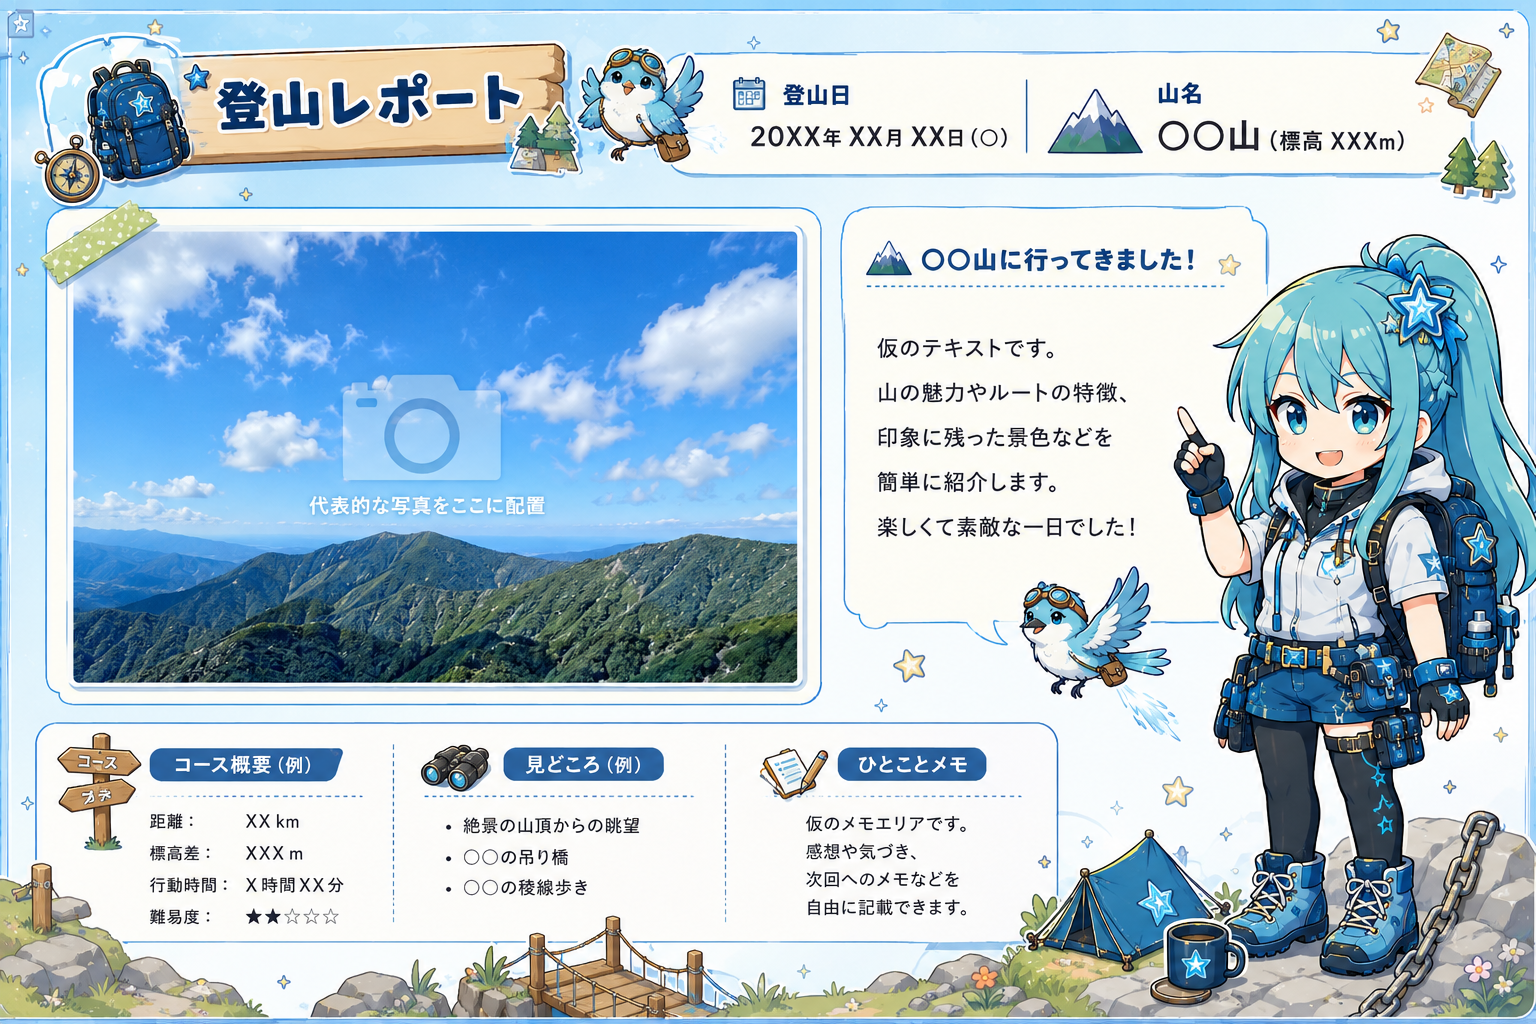
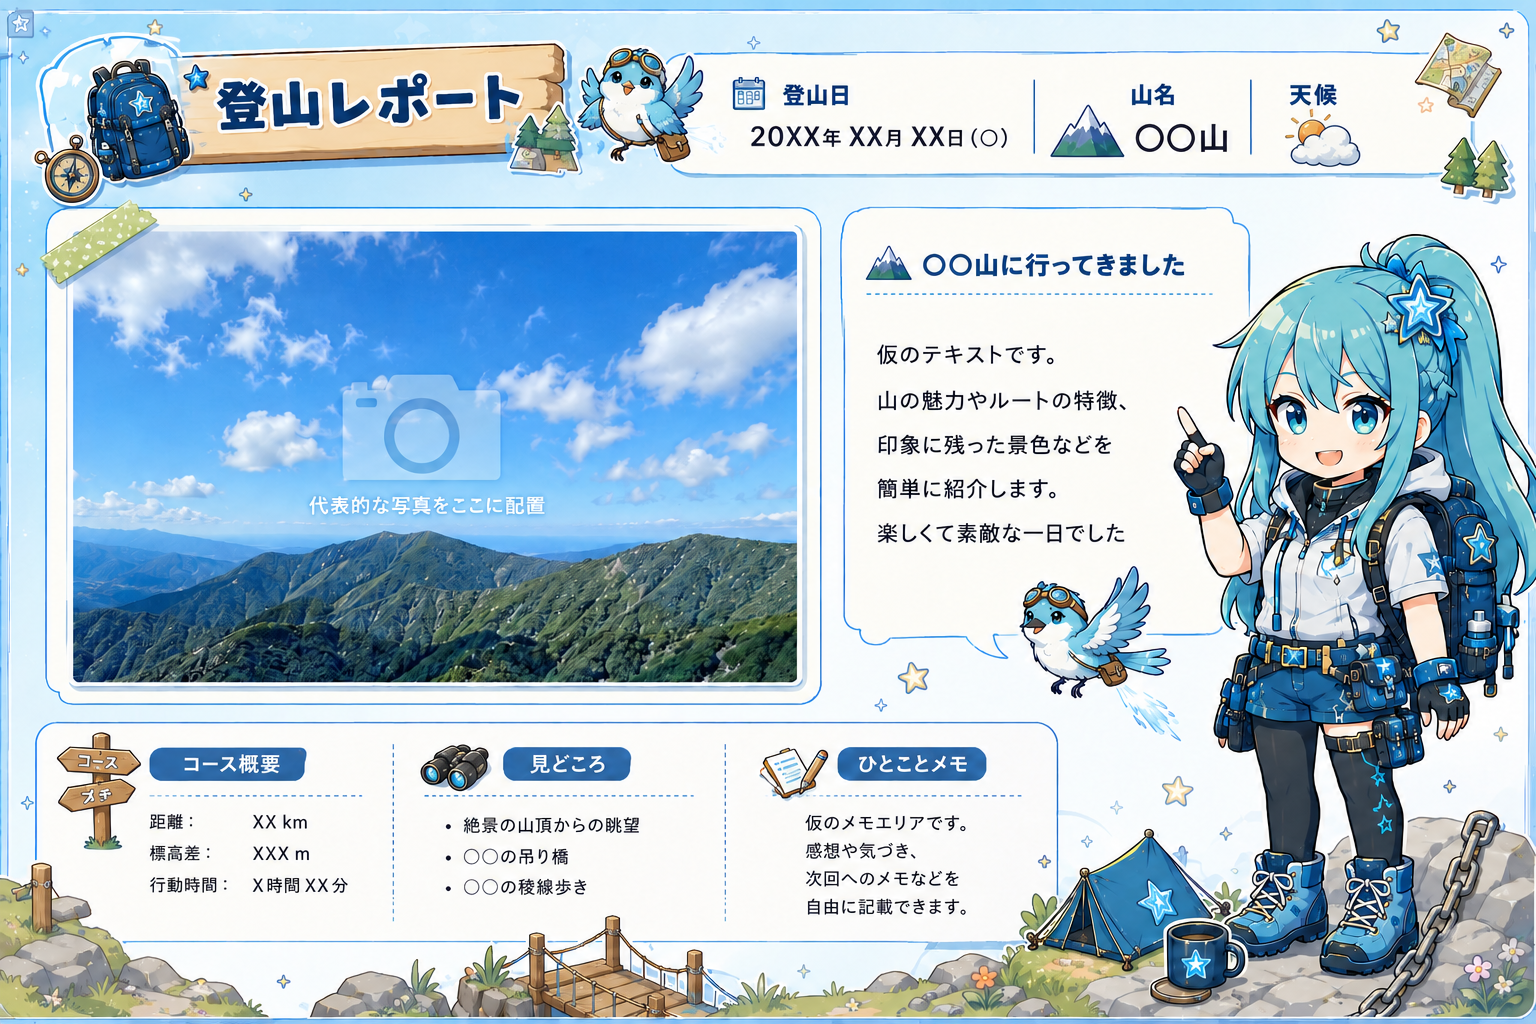
テンプレートファイルの調整

diff --git a/assets/scribe_image_guideline.md b/assets/scribe_image_guideline.md
@@ -29,25 +29,22 @@
 
 ### 3-1. レイアウトの各領域と差し込む内容
 
-`report_template.png` のレイアウトを踏襲し、各領域へレポートから読み解いた内容を差し込みます。テンプレートのプレースホルダ（「〇〇山」「20XX年」「仮のテキストです。」「代表的な写真をここに配置」のカメラアイコンなど）は**すべて実際の内容へ置き換え**、置き換え漏れを残さないでください。
+`report_template.png` のレイアウトを踏襲し、各領域へレポートから読み解いた内容を差し込みます。テンプレートのプレースホルダ（「〇〇山」「20XX年」「仮のテキストです。」「代表的な写真をここに配置」のカメラアイコン、ヘッダ天候欄の仮アイコンなど）は**すべて実際の内容へ置き換え**、置き換え漏れを残さないでください。
 
 | テンプレートの領域 | 差し込む内容 | 主な情報源 |
 |---|---|---|
 | タイトル帯「登山レポート」 | テンプレートのまま | - |
-| 登山日 | 「YYYY年M月D日（曜）」。複数日の行程は期間で表記 | ステップ3の読み解き（activity_data / header） |
-| 山名 | 主要な山1つ＋標高（例: 「鐘撞堂山（標高330m）」） | header / activity_detail / Todoist タスク |
+| 登山日（ヘッダ） | 「YYYY年M月D日（曜）」。複数日の行程は期間で表記 | ステップ3の読み解き（activity_data / header） |
+| 山名（ヘッダ） | 主要な山1つ（例: 「鐘撞堂山」）。**標高は記載しない** | header / activity_detail / Todoist タスク |
+| 天候（ヘッダ） | テンプレートの仮アイコンを、`report_designs_2.png` の天候アイコンチップから**山行当日の天候に合うもの**へ置き換え（アイコンのみ。チップ脇のラベル文字は描かない） | activity_detail / header / 代表写真 |
 | 代表写真エリア | **添付した代表写真をそのまま配置** | ユーザーの代表写真 |
 | 見出し吹き出し | 「〇〇山に行ってきました」（**「！」は付けない**） | 山名 |
 | 紹介文（吹き出し内） | 山行の要約を1行あたり短めの文で4〜6行。**「天候」「険しさの度合い」「眺望」を優先**（SNS 本文と同じ観点） | activity_detail |
-| コース概要 | 距離／標高差（のぼり）／行動時間／難易度（星） | activity_data |
+| コース概要 | 距離／標高差（のぼり）／行動時間 | activity_data |
 | 見どころ | 2〜3項目。各項目は15字前後の短い語句・体言止め | activity_detail / checkpoints |
 | ひとことメモ | 1〜3行の短い感想・気づき | activity_detail |
 
-### 3-2. 難易度（星）の決め方
-
-コース概要の「難易度」は、[yamap_activity_guide.md](../.claude/docs/yamap_activity_guide.md) の5段階「手応え」評価（軸①: ルートの手応え）をそのまま星の数に対応させます（Lv.1 = ★1つ 〜 Lv.5 = ★5つ、5個中）。コース定数ラベルが読み取れない場合も、同ガイドの補完手順（タイム・距離・のぼり等からの大づかみな推定）に従ってください。
-
-### 3-3. 内容の制約（SNS 本文と同じ基準）
+### 3-2. 内容の制約（SNS 本文と同じ基準）
 
 * レポートに無い情報を推測で加筆しない（公開されているレポートの範囲で構成する）
 * YAMAP バッジの進行状況は含めない
@@ -55,7 +52,7 @@
 * 個人・家族が特定される情報や、レポートに公開されていない予定・位置情報を描かない
 * ホログラム・ルリの固有名・蛍・ルミナス・ログなどの世界観固有の語彙を**テキストとして描かない**（ルリは絵として登場するが、名前や設定の説明文は入れない）
 
-### 3-4. 碧衣とルリの扱い
+### 3-3. 碧衣とルリの扱い
 
 * テンプレート通り、画面右側に碧衣（チビ頭身の立ち絵）、傍らにルリを配置します。意匠（碧衣の水色の髪・星のモチーフ・登山装備、ルリのゴーグル・ショルダーバッグ・輝く尾羽）は崩さないでください。
 * 表情・仕草は、レポートの手応えや空気に合わせて微調整して構いません。`report_designs_1.png` に碧衣の**ポーズバリエーション**（達成した・余裕がある・案内・説明・疲れている・休憩中 など）と**表情バリエーション**（笑顔・やる気・達成感 など）が用意されているので、山行の空気に合うものを選んでプロンプトで指定してください（例: 重厚な山行なら達成感のあるポーズ・表情、のどかな里山なら案内ポーズに穏やかな笑顔）。この2点が、この画像で許される数少ない「彩り」です。
@@ -82,7 +79,7 @@
 ### ① [レイアウトの踏襲]
 
 * プロンプトの冒頭で「添付した report_template.png のレイアウト・配色・作画スタイルを忠実に踏襲してください」と宣言してください（添付資料の見落とし防止。デイリーモードの「冒頭の参照誘導」に相当）。
-* あわせて「テンプレート内のプレースホルダのテキスト・カメラアイコンは、後述の指定内容へすべて置き換える」ことを明示してください。
+* あわせて「テンプレート内のプレースホルダのテキスト・カメラアイコン・ヘッダ天候欄の仮アイコンは、後述の指定内容へすべて置き換える」ことを明示してください。
 
 ### ② [差し込みテキスト]
 
@@ -98,7 +95,7 @@
 ### ④ [チップの散りばめ]
 
 * 「添付した report_designs_1.png / report_designs_2.png のチップ（登山道具・地形オブジェクト・天候アイコン・季節装飾など）を、レイアウトの余白や見出し脇に装飾として散りばめてください」と指示してください。細かい配置指定は不要で、おおよその方向付けで構いません。
-* **天候アイコンチップ（優先して使う）**: 「天候」はSNS本文・画像の双方で優先的に伝える観点です。`report_designs_2.png` の天候アイコンチップ（晴れ・曇り・雨・雪・風・霧 など）から、**レポートの山行当日の天候に合うもの**を選び、登山日・山名の付近や紹介文の見出し脇など、天候情報として自然に読み取れる位置へ添えるよう指示してください。
+* **天候アイコンチップ（ヘッダの天候欄・必須）**: 「天候」はSNS本文・画像の双方で優先的に伝える観点です。テンプレートのヘッダは「登山日｜山名｜天候」の3枠で、天候欄には仮のアイコンが置かれています。`report_designs_2.png` の天候アイコンチップ（晴れ・曇り・雨・雪・風・霧 など）から**山行当日の天候に合うもの**を選び、この仮アイコンを置き換えるよう指示してください（セクション3-1の表参照。散りばめではなく必須の差し込みです）。余白の装飾として天候アイコンを追加で使うのは構いません。
 * **季節装飾チップ**: `report_designs_2.png` の季節装飾チップ（春＝桜／夏＝新緑／秋＝紅葉／冬＝雪の結晶）から、**山行時期の季節に合う1系統**を選び、余白の装飾に用いてください。複数の季節を混在させないでください。
 * **地形・道具チップ**: 選ぶチップは、**レポートに実際に登場した要素**（例: 吊り橋を渡った行程なら吊り橋、テント泊なら テント、岩場の多い道なら岩）を優先すると、画像とレポート内容の整合が取れます。該当が無ければ汎用の登山道具チップで構いません。
 * チップ内に文字を持つもの（山頂標識など）を使う場合は、文字をレポートに合う内容へ置き換えるか、判読される位置に置かないよう添えてください。
@@ -124,10 +121,10 @@
 [差し込みテキスト]
 以下の文字列を、一字一句そのままテンプレートの各領域へ描画してください。フォントの雰囲気はテンプレートを踏襲し、はっきりと判読できる大きさで描いてください。
 - 登山日: 「2026年1月17日（土）」
-- 山名: 「鐘撞堂山（標高330m）」
+- 山名: 「鐘撞堂山」
 - 見出し吹き出し: 「鐘撞堂山に行ってきました」
 - 紹介文: 「波久礼駅から羅漢山を経て山頂へ。／羅漢像の並ぶ静かな雑木林の尾根を歩き、／山頂からは関東平野を一望できました。／歴史と展望の揃った里山でした。」
-- コース概要: 距離「5.9km」／標高差「420m」／行動時間「2時間50分」／難易度「★★☆☆☆」
+- コース概要: 距離「5.9km」／標高差「420m」／行動時間「2時間50分」
 - 見どころ: 「山頂からの関東平野の展望」「羅漢像の並ぶ参道」
 - ひとことメモ: 「冬晴れの澄んだ空気の中、静かな里山歩きを楽しめました。」
 
@@ -135,7 +132,7 @@
 添付した写真（3枚目）を、テンプレートの写真エリアにそのまま配置してください。フレームに合わせたトリミング・軽微な色調整は構いませんが、写っている内容の描き足しや置き換え、イラスト化はしないでください。
 
 [チップの散りばめ]
-添付した report_designs_2.png の天候アイコンチップから「晴れ」を選び、登山日・山名の付近に天候を示す装飾として添えてください。あわせて季節装飾チップは「冬（雪の結晶）」の系統を余白の装飾に使ってください。さらに report_designs_1.png / report_designs_2.png のチップから、冬の里山歩きに合うもの（道標・雑木林・登山靴・双眼鏡など）を選び、レイアウトの余白や見出し脇に装飾として散りばめてください。
+ヘッダの天候欄の仮アイコンは、添付した report_designs_2.png の天候アイコンチップの「晴れ」（太陽のアイコン）に置き換えてください。あわせて季節装飾チップは「冬（雪の結晶）」の系統を余白の装飾に使ってください。さらに report_designs_1.png / report_designs_2.png のチップから、冬の里山歩きに合うもの（道標・雑木林・登山靴・双眼鏡など）を選び、レイアウトの余白や見出し脇に装飾として散りばめてください。
 
 [スタイル・品質]
 report_template.png と同じ、淡い水彩調の背景とフラットなアニメ塗り。水色基調の配色。画面右側の碧衣（チビ頭身・登山装備・星のモチーフ）とルリ（ゴーグルとショルダーバッグの水色の小鳥）はテンプレートの立ち絵の意匠を保ち、碧衣は report_designs_1.png の「案内・説明」のポーズと穏やかな笑顔の表情にしてください。
@@ -146,8 +143,8 @@ report_template.png と同じ、淡い水彩調の背景とフラットなアニ
 
 生成後、**必ず生成画像を Read ツールで読み込み**、以下を順に確認してください。この画像は不特定多数へ公開されるため、チェックは省略できません。
 
-1. **テキストの正確性（最優先）**: 山名・登山日・記録数値・星の数が指示と一致しているか。文字化け・脱字・意味を成さない文字列が主要領域に無いか。
-2. **プレースホルダの残存**: 「〇〇山」「20XX年」「仮のテキスト」やカメラアイコンなど、テンプレート由来の仮要素が残っていないか。
+1. **テキストの正確性（最優先）**: 山名・登山日・記録数値が指示と一致しているか。ヘッダの天候アイコンが山行当日の天候に合っているか。文字化け・脱字・意味を成さない文字列が主要領域に無いか。
+2. **プレースホルダの残存**: 「〇〇山」「20XX年」「仮のテキスト」、カメラアイコン、天候欄の仮アイコンなど、テンプレート由来の仮要素が残っていないか。
 3. **代表写真の反映**: 写真エリアに添付した代表写真が使われているか。内容が別の風景へすり替わったり、大きく改変されたりしていないか。
 4. **キャラクターの意匠**: 碧衣（水色の髪・星のモチーフ・登山装備）とルリ（ゴーグル・ショルダーバッグ）の同一性が保たれているか。
 5. **公開適性**: 個人・家族が特定される情報（人物の顔・氏名・車両ナンバーなど。代表写真由来の写り込みを含む）や、レポートに公開されていない情報が描かれていないか。
